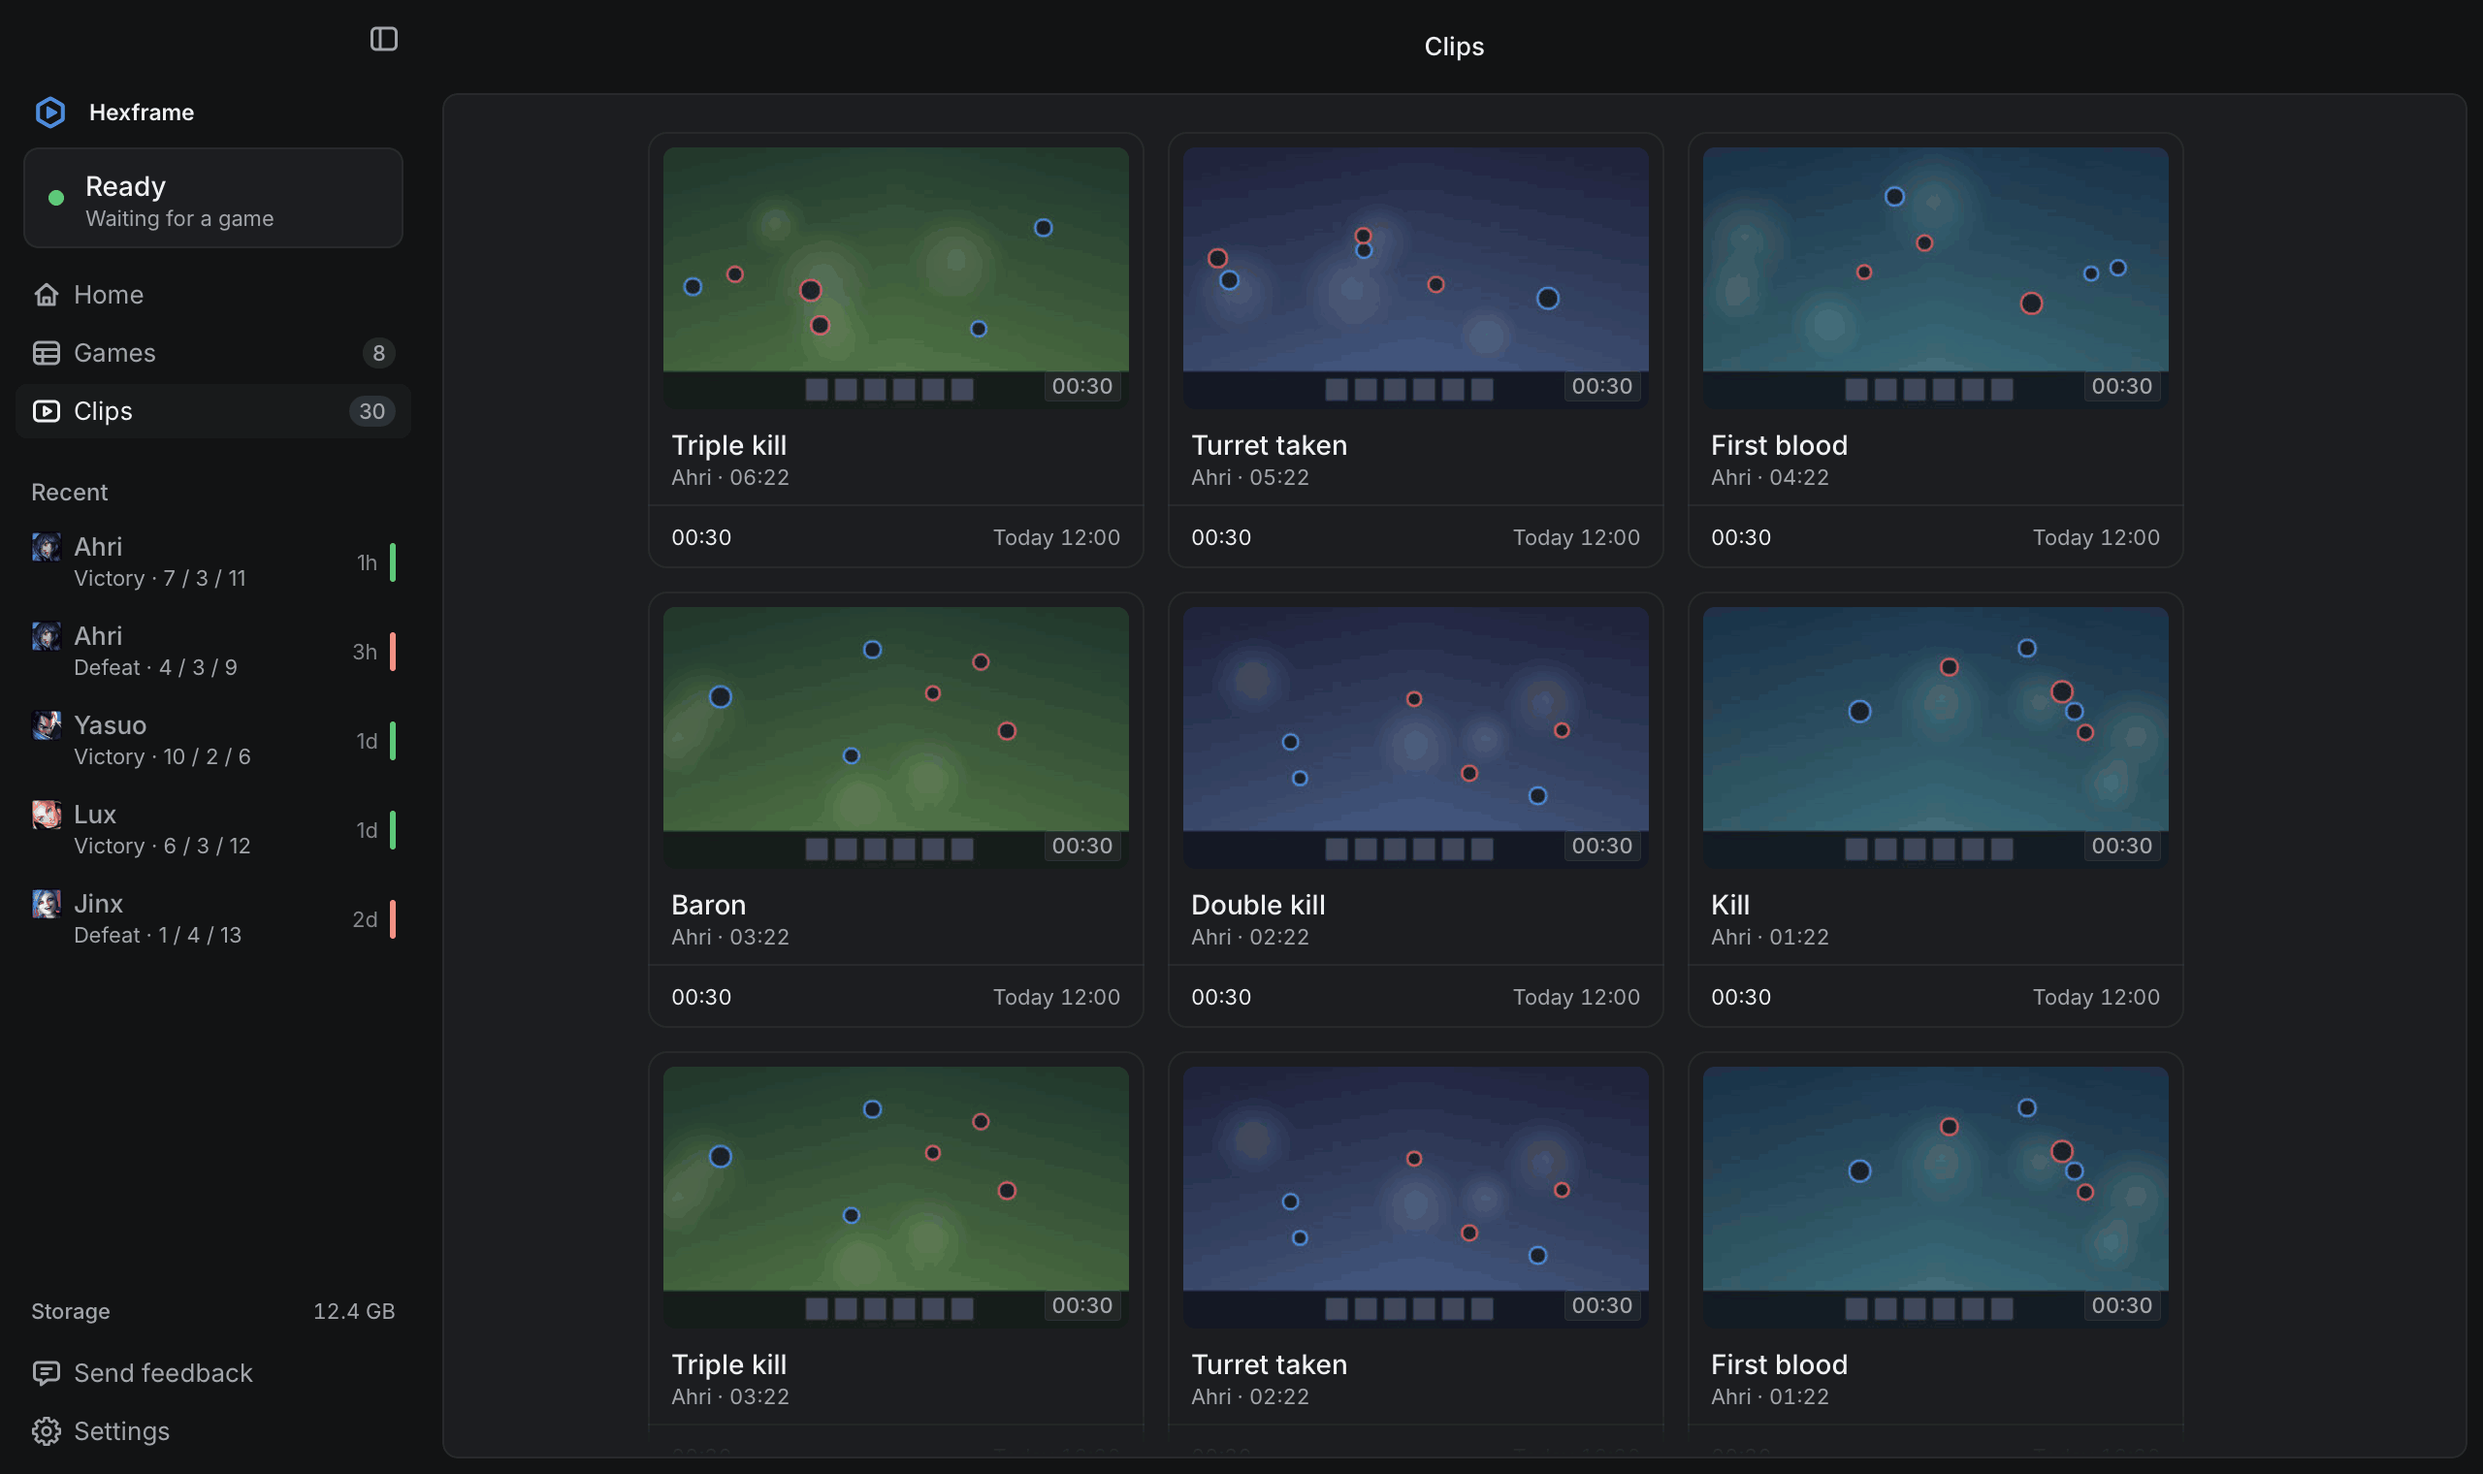
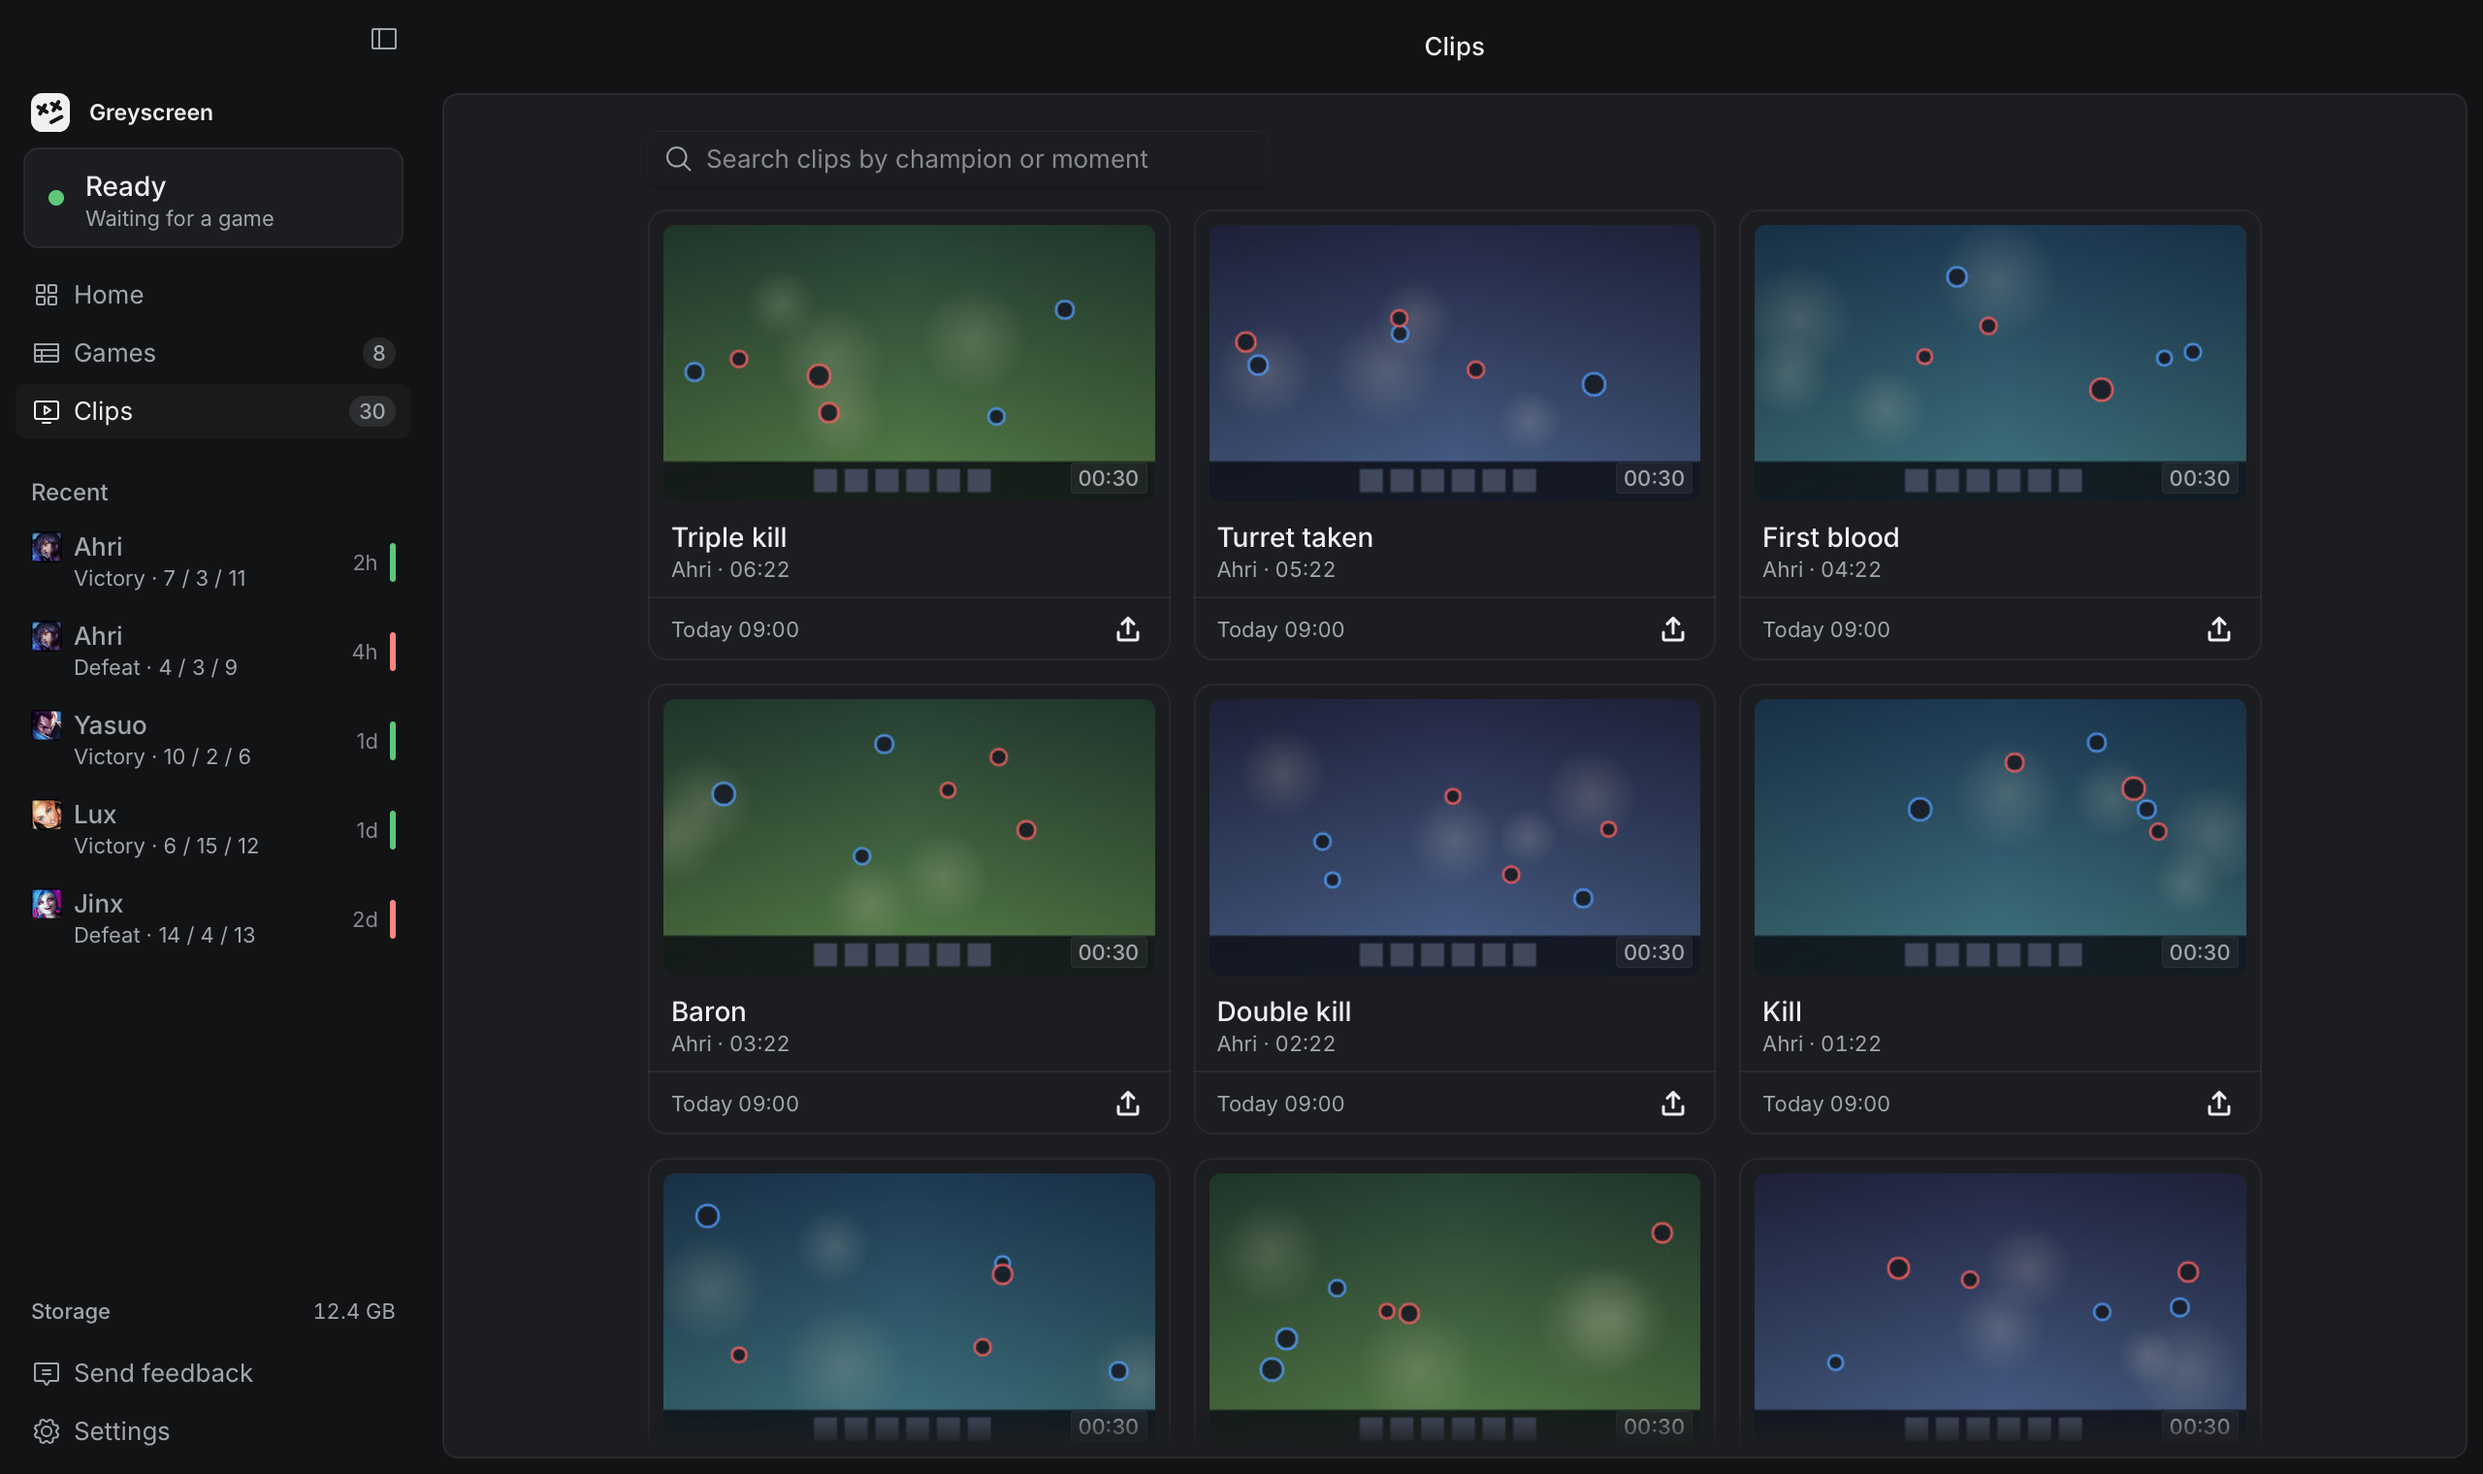
docs: refresh the README and screenshots

diff --git a/README.md b/README.md
@@ -6,74 +6,81 @@
   </picture>
 </p>
 
-<p align="center">Automatic League of Legends recorder and death review for Windows.</p>
+<p align="center"><b>The fastest League of Legends recorder for Windows.</b><br>Free, open source, no ads, no account.</p>
 
 <p align="center">
-  <a href="https://github.com/andresmarpz/greyscreen/releases/latest"><img src="https://img.shields.io/github/v/release/andresmarpz/greyscreen?include_prereleases&label=release" alt="Latest release"></a>
+  <a href="https://github.com/andresmarpz/greyscreen/releases"><img src="https://img.shields.io/github/v/release/andresmarpz/greyscreen?include_prereleases&label=release" alt="Latest release"></a>
   <a href="LICENSE"><img src="https://img.shields.io/github/license/andresmarpz/greyscreen" alt="License"></a>
+  <img src="https://img.shields.io/badge/platform-Windows-0078D6" alt="Platform: Windows">
 </p>
 
 <p align="center">
   <a href="https://greyscreen.app">Website</a> ·
-  <a href="https://github.com/andresmarpz/greyscreen/releases/latest">Latest release</a> ·
-  <a href="#install">Install</a> ·
-  <a href="#troubleshooting">Troubleshooting</a>
+  <a href="https://greyscreen.app/download/">Download</a> ·
+  <a href="https://greyscreen.app/changelog/">Changelog</a>
 </p>
 
-Greyscreen records every League game on your GPU, logs kills, deaths and objectives as an event timeline, and helps you learn from your deaths. It is free, open source and written in Rust.
+<p align="center">
+  <img src="docs/screens/home.png" alt="The Home screen: recording state, last game, recent clips and weekly stats." width="860">
+</p>
 
 <table>
   <tr>
-    <td width="50%"><img src="docs/screens/home.png" alt="The Home screen: recording state, last game, recent clips and weekly stats."><br><sub><b>Home.</b> Recording state, last game, recent clips and weekly stats.</sub></td>
-    <td width="50%"><img src="docs/screens/death-review.png" alt="Death review: one death at a time, with tags and a note."><br><sub><b>Death review.</b> Step through each death, tag it and write a note.</sub></td>
+    <td width="50%"><img src="docs/screens/games.png" alt="The Games screen: every match with its events and player."><br><sub><b>Games.</b> Every match, with its events on the timeline.</sub></td>
+    <td width="50%"><img src="docs/screens/death-review.png" alt="The death review summary: deaths by tag and when you died."><br><sub><b>Death review.</b> See why you die and when.</sub></td>
   </tr>
   <tr>
-    <td width="50%"><img src="docs/screens/clips.png" alt="The Clips screen: a grid of highlight clips with thumbnails."><br><sub><b>Clips.</b> Every highlight clip, with thumbnails.</sub></td>
-    <td width="50%"><img src="docs/screens/dock-games.png" alt="The Games screen with the dock navigation: games list, player and event list."><br><sub><b>Games, with the Dock.</b> Games list, player and event list.</sub></td>
+    <td width="50%"><img src="docs/screens/clips.png" alt="The Clips screen: a grid of highlight clips."><br><sub><b>Clips.</b> Every highlight, ready to share.</sub></td>
+    <td width="50%"><img src="docs/screens/dock.png" alt="The dock navigation while a game is recording."><br><sub><b>Dock.</b> Prefer a bottom bar? Switch the navigation in Settings.</sub></td>
   </tr>
 </table>
 
 ## Features
 
-- **GPU hardware encoding:** Keeps frames on the GPU with near-zero FPS cost.
-- **Vanguard-safe game capture:** Records only League video and audio without touching the game process.
-- **Automatic event timeline:** Starts and stops with each match, plotting kills, deaths and objectives. Click a marker to jump to that moment.
-- **Death review:** Steps through each death with a replay and slow motion on the final seconds. Tag the cause (out of position, no vision, bad trade and more) and add a note.
-- **Games and Clips:** A searchable games list with thumbnails and results, and a grid of every highlight clip.
-- **Clips without re-encoding:** Cuts clips around chosen moments, or press `F9` to save the last seconds.
-- **Crash-safe MP4 files:** Saves fragmented recordings and repairs unfinished files after a crash.
-- **Sidebar or Dock:** Pick the navigation style in Settings.
-- **One small exe:** Native tray app with no extra runtime. It installs itself for your user, with no admin rights, and tells you when an update is ready.
+- **Fast.** Near-zero FPS cost while you play.
+- **Records every game on its own.** It starts when the game loads and stops after the Nexus falls.
+- **Marks every death.** Kills, deaths and objectives sit on a timeline. Click one to jump there.
+- **Death review.** Step through each death in slow motion, tag the cause and add a note.
+- **Clips.** Highlights are cut for you. Press `F9` to save the last seconds.
+- **Crash-safe files.** Recordings are repaired after a crash.
+- **Tiny tray app.** One small exe with no extra runtime.
+- **No admin rights.** It installs to your user folder and updates itself.
 
 ## Install
 
-Download `GreyscreenSetup.exe` from the [latest release](https://github.com/andresmarpz/greyscreen/releases) and run it. A setup window installs Greyscreen to `%LOCALAPPDATA%\Programs\Greyscreen` and adds a Start Menu shortcut, with an option to start with Windows. To remove it, use Windows Settings > Apps; your recordings and settings stay. Greyscreen checks for updates and offers to restart into the new version.
+Download `GreyscreenSetup.exe` from the [latest release](https://github.com/andresmarpz/greyscreen/releases) and run it. It installs Greyscreen to `%LOCALAPPDATA%\Programs\Greyscreen` and adds a Start Menu shortcut, with an option to start with Windows. To remove it, use Windows Settings > Apps. Your recordings and settings stay.
 
-**Requirements:**
+Requirements:
 
 - Windows 10 2004 or newer (Windows 11 recommended).
-- A GPU with a hardware H.264 encoder (any NVIDIA, AMD, or Intel GPU from the last several years). Without one, Greyscreen records with Windows' software encoder at up to 1080p 30 fps, which uses more CPU.
+- A GPU with a hardware H.264 encoder (most NVIDIA, AMD and Intel GPUs from the last several years). Without one, Greyscreen records with Windows' software encoder at up to 1080p 30 fps, which uses more CPU.
+- League of Legends in **Borderless** or **Windowed** mode. Exclusive fullscreen cannot be captured.
 
-Set League of Legends to **Borderless** or **Windowed** mode, because exclusive fullscreen cannot be captured. On Windows 10 a thin yellow border may appear around the game while recording, which is a Windows limitation.
+On Windows 10 a thin yellow border may appear around the game while recording. This is a Windows limitation.
 
 ## Usage
 
-Start Greyscreen and play. Recording begins when the game finishes loading and stops a few seconds after the Nexus falls. TFT, replays, and spectator games are not recorded.
+Start Greyscreen and play. Recording begins when the game finishes loading and stops a few seconds after the Nexus falls. TFT, replays and spectator games are not recorded.
 
 Each match is saved to `Videos\Greyscreen\<date>_<champion>_<mode>\`:
 
 - `game.mp4`: the full match recording.
 - `game.json`: the match event timeline.
-- `clips\`: automatic highlight clips.
+- `clips\`: highlight clips.
 
-The **Games** screen lists every match: pick one to review it and click any event marker to jump to that moment. **Review deaths** (`D`) steps through each death so you can tag it and add a note. **Clips** shows the recent highlight clips and **Home** shows the current state. To verify capture before a match, use **Test recording (10 s)** on **Home** to record your primary monitor.
+**Games** lists every match. **Review deaths** (`D`) steps through each death. **Clips** shows your highlights. **Home** shows the current state, and **Test recording (10 s)** checks capture before a match.
 
-**Settings** (the gear in the sidebar, or `Ctrl+,`) cover quality (`Balanced`, `High`, `Max`), resolution, frame rate (`30` or `60` fps), audio, clip options, the output folder, a storage limit, keybinds, and the navigation style (sidebar or dock). Press `F9` during a game to save a clip of the last seconds.
+Settings (the gear in the sidebar, or `Ctrl+,`) cover quality (`Balanced`, `High`, `Max`), resolution, frame rate (`30` or `60` fps), audio, clips, the output folder, a storage limit, keybinds and the navigation style (sidebar or dock).
 
 - Settings file: `%APPDATA%\Greyscreen\settings.json`
 - Logs folder: `%LOCALAPPDATA%\Greyscreen\logs`
 
-## Troubleshooting
+<details>
+<summary><b>Troubleshooting</b></summary>
+
+<br>
+
+Black video usually means the game is in exclusive fullscreen, or you are on a laptop with two GPUs. Switch League to Borderless or Windowed mode, and set Greyscreen to **High performance** in Windows Graphics settings.
 
 Use `greyscreen-cli.exe` from a terminal to diagnose capture or encoding issues:
 
@@ -91,13 +98,13 @@ greyscreen-cli.exe record --seconds 10 --window "<title>"
 greyscreen-cli.exe recover <file.mp4.part>
 ```
 
-Black video usually means the game is in exclusive fullscreen, or you are on a laptop with two GPUs. Switch League to Borderless or Windowed mode, and set Greyscreen to **High performance** in Windows Graphics settings.
+When you report a problem, attach the contents of `%LOCALAPPDATA%\Greyscreen\logs`.
 
-When reporting a problem, attach the contents of `%LOCALAPPDATA%\Greyscreen\logs`.
+</details>
 
 ## How it works
 
-Video frames stay on the GPU from capture to encode, audio is isolated to the League process, and match state comes from Riot's local HTTP API. The fragmented MP4 writer is pure Rust and written specifically for Greyscreen.
+Video frames stay on the GPU from capture to encode. Audio comes only from the League process. Match state comes from Riot's local Live Client Data API. The fragmented MP4 writer is pure Rust.
 
 ```text
 Game window -> Windows.Graphics.Capture (D3D11)
@@ -110,13 +117,16 @@ Live Client Data API (127.0.0.1:2999)
   -> Session state machine -> Start/stop, event timeline, highlight clips
 ```
 
-## Building from source
+<details>
+<summary><b>Building from source</b></summary>
+
+<br>
 
 Greyscreen is developed on macOS and cross-compiled to Windows with `cargo-xwin`. It also builds natively on Windows with the MSVC toolchain.
 
-**Requirements:**
+Requirements:
 
-- Rust (toolchain version is pinned in `rust-toolchain.toml`)
+- Rust (the toolchain is pinned in `rust-toolchain.toml`)
 - `just`
 - On macOS: `cargo-xwin` and Homebrew LLVM
 
@@ -124,11 +134,7 @@ Greyscreen is developed on macOS and cross-compiled to Windows with `cargo-xwin`
 # macOS setup
 brew install just llvm typos-cli
 cargo install --locked cargo-xwin
-```
 
-**Commands:**
-
-```bash
 # Everyday gate: format check and clippy
 just check
 
@@ -143,7 +149,12 @@ cargo run -p greyscreen-cli -- fake-league --port 2999 --speed 4
 GREYSCREEN_LIVE_URL=http://127.0.0.1:2999 cargo run -p greyscreen
 ```
 
-## Project layout
+</details>
+
+<details>
+<summary><b>Project layout</b></summary>
+
+<br>
 
 | Path | Description |
 | --- | --- |
@@ -154,15 +165,13 @@ GREYSCREEN_LIVE_URL=http://127.0.0.1:2999 cargo run -p greyscreen
 | `crates/capture` | Windows capture and hardware encoding. |
 | `crates/mp4` | Pure Rust fragmented MP4 writer. |
 | `crates/thumbs` | JPEG thumbnails from MP4 frames through the OS decoder. |
+| `crates/league` | Live Client Data API client, plus the update and feedback clients. |
 | `apps/web` | The website. |
 | `apps/api` | The feedback backend on Cloudflare. |
-| `crates/league` | Live Client Data API client, plus the update and feedback clients. |
 
-Design notes live in [docs/architecture.md](docs/architecture.md), [docs/roadmap.md](docs/roadmap.md), and [docs/research/](docs/research/).
+Design notes live in [docs/architecture.md](docs/architecture.md), [docs/roadmap.md](docs/roadmap.md) and [docs/research/](docs/research/).
 
-## Status
-
-Greyscreen is an early preview. It is built and tested on macOS and in CI, and real-hardware testing on Windows is under way. Bug reports are welcome.
+</details>
 
 ## License
 
